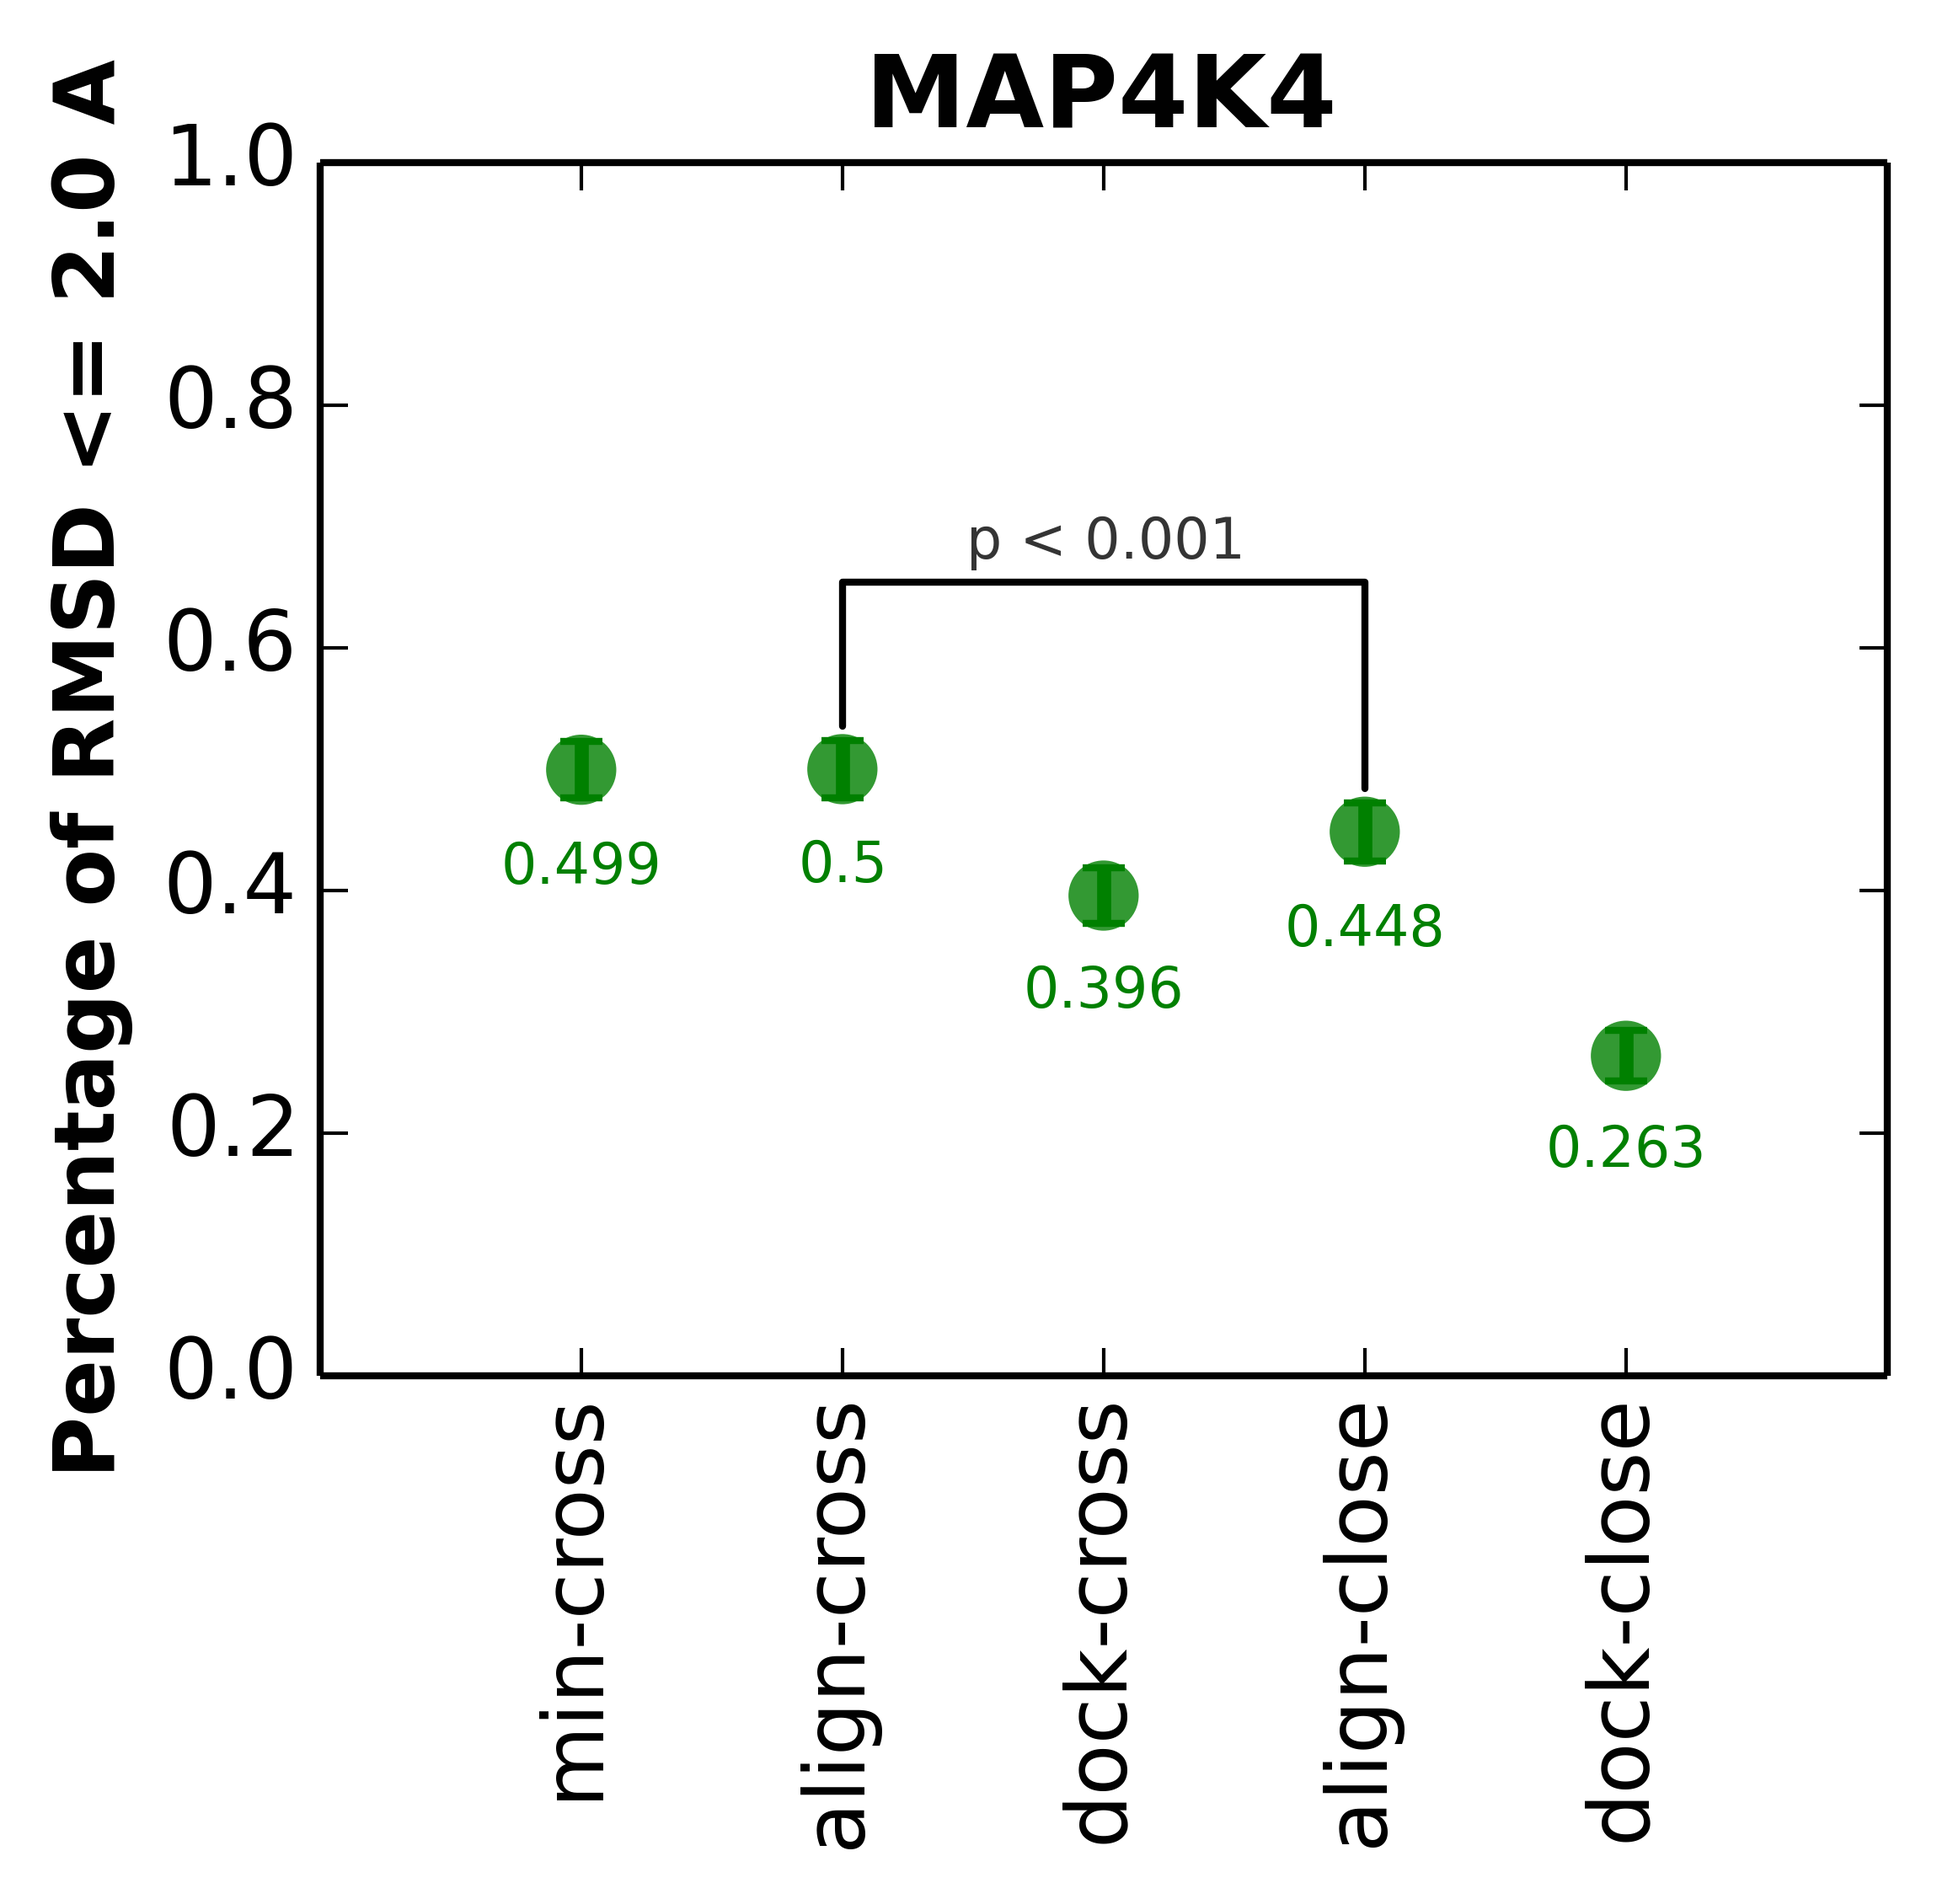
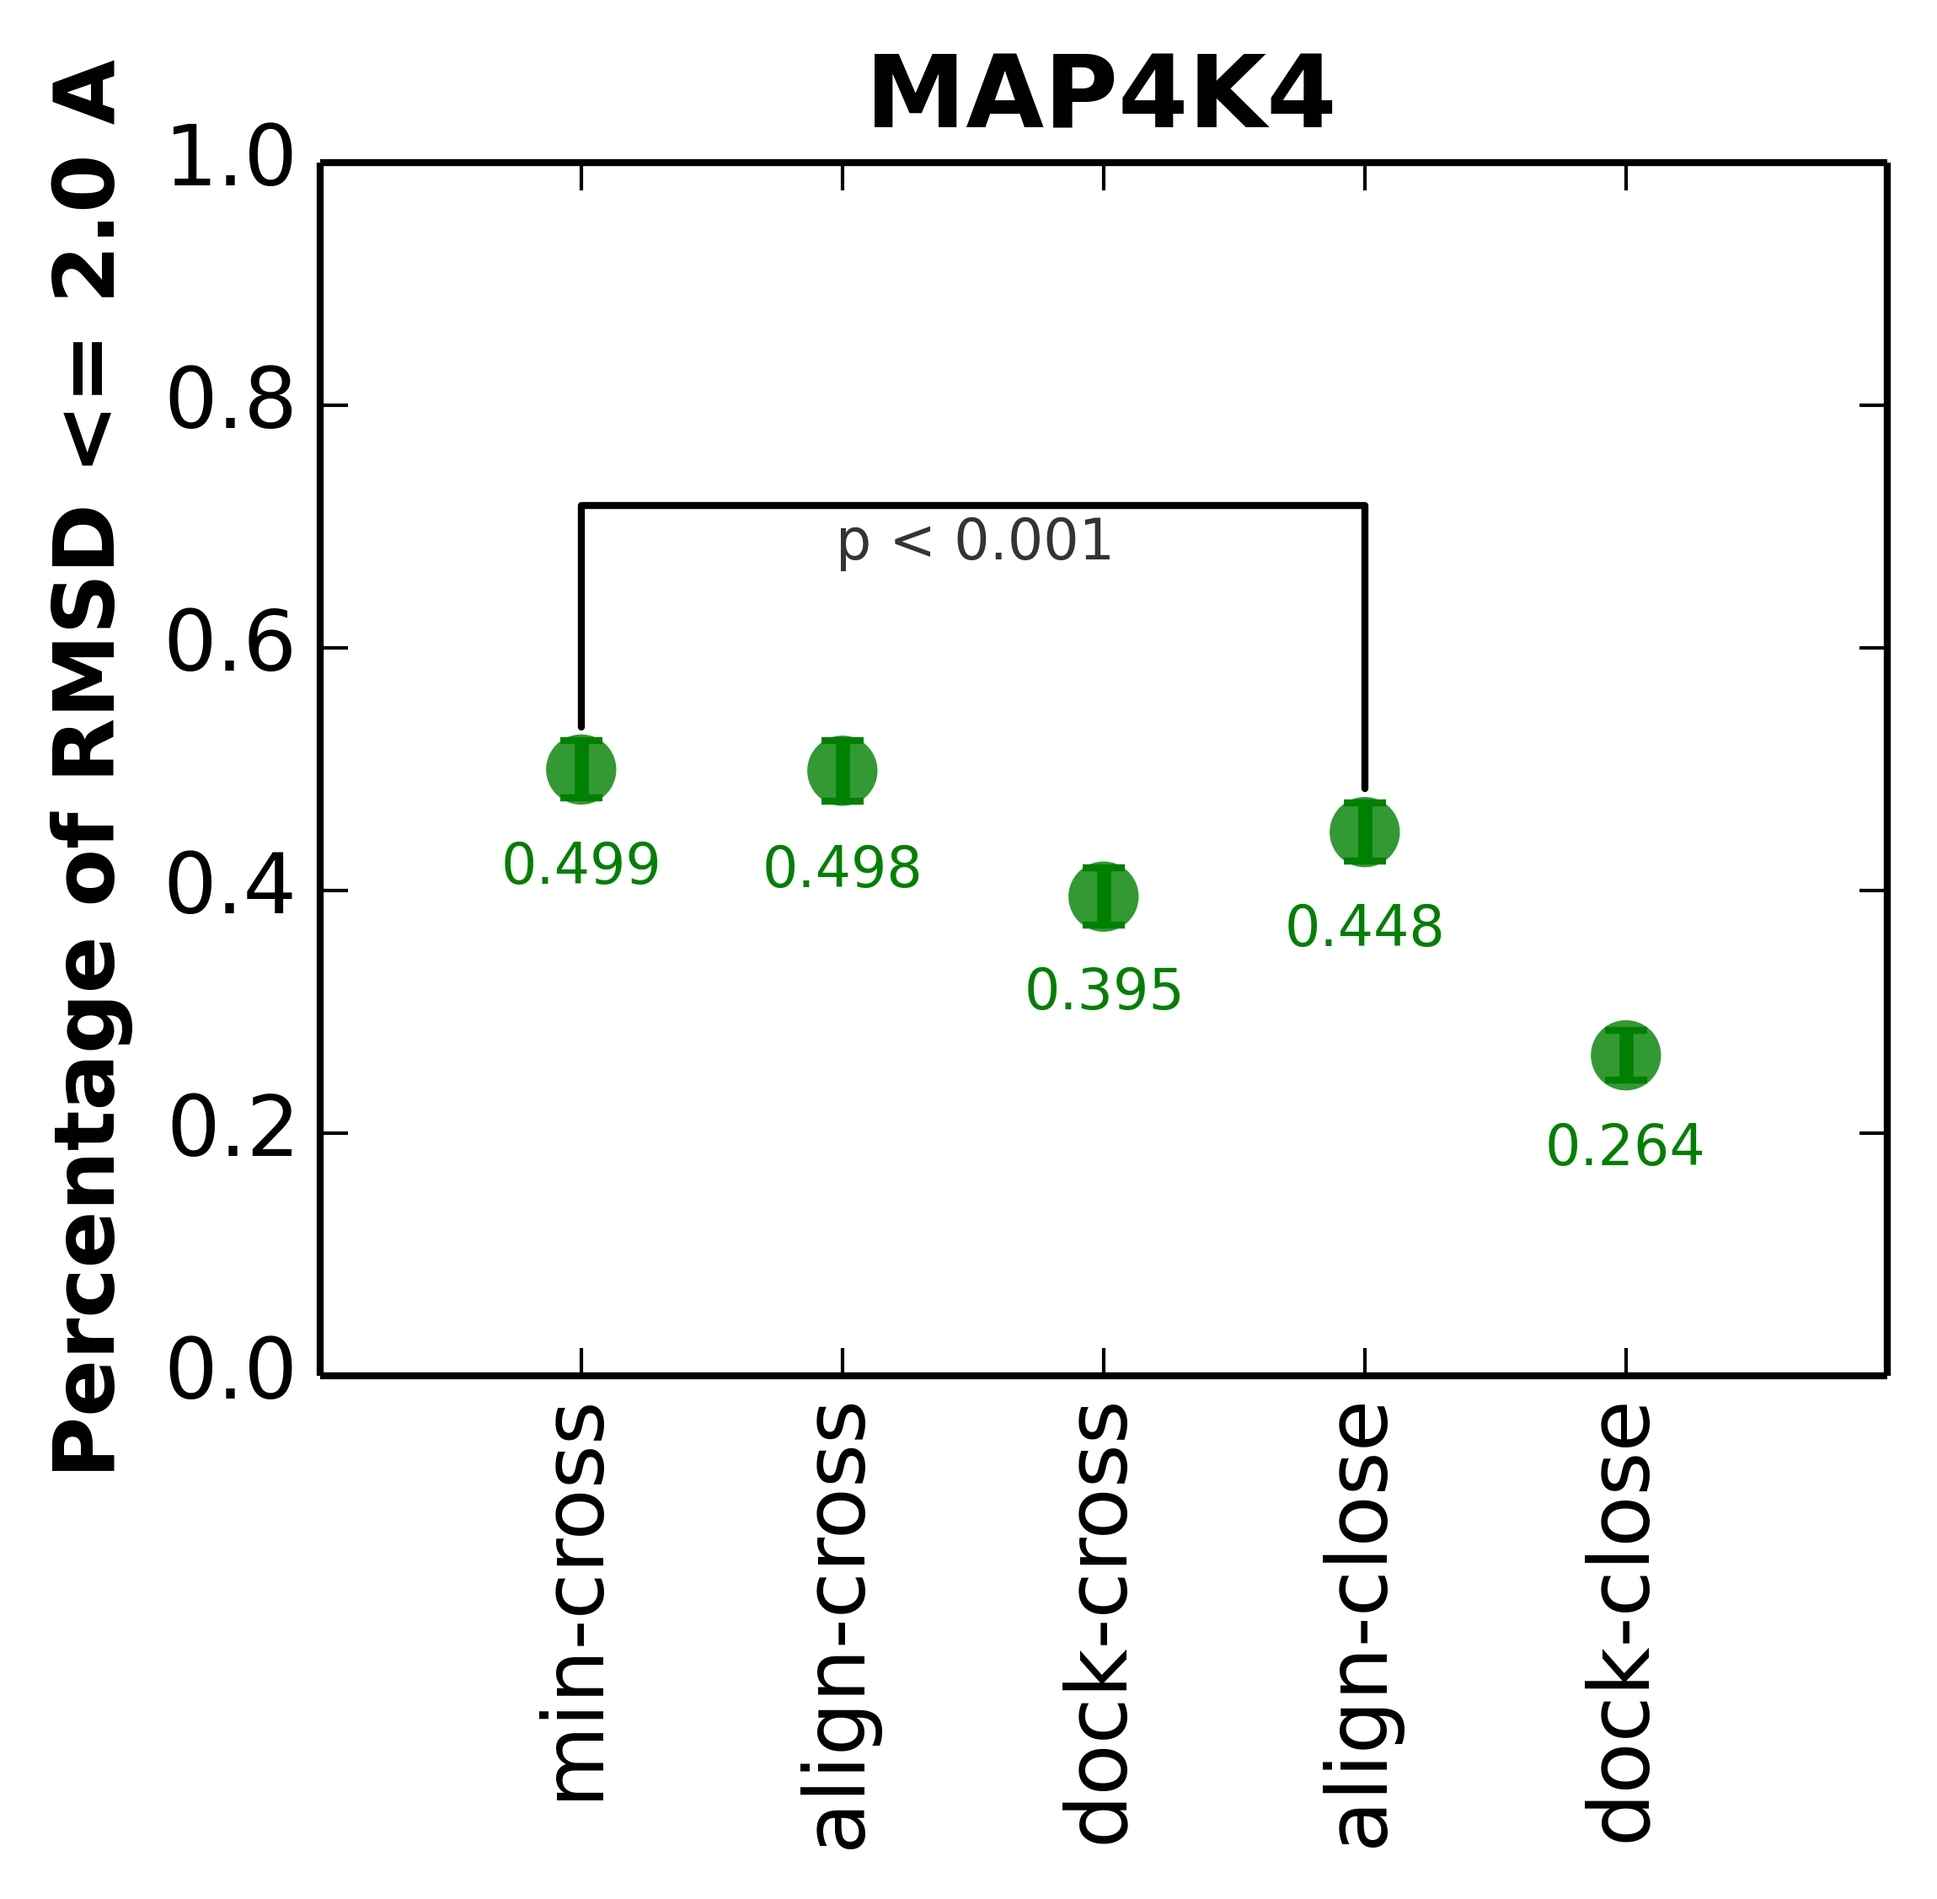
version 1.0.4

diff --git a/plotter.py b/plotter.py
@@ -16,7 +16,7 @@ from RMSD_formating import *
 
 CONTEXT_SETTINGS = dict(help_option_names=['-h','--help'])
 
-#RMSD_formating('MAP4K4/')
+RMSD_formating('MAP4K4/','example_MAP4K4_RMSD.csv')
 
 methods_plotter('example_MAP4K4_RMSD.csv','apple.png')
 
